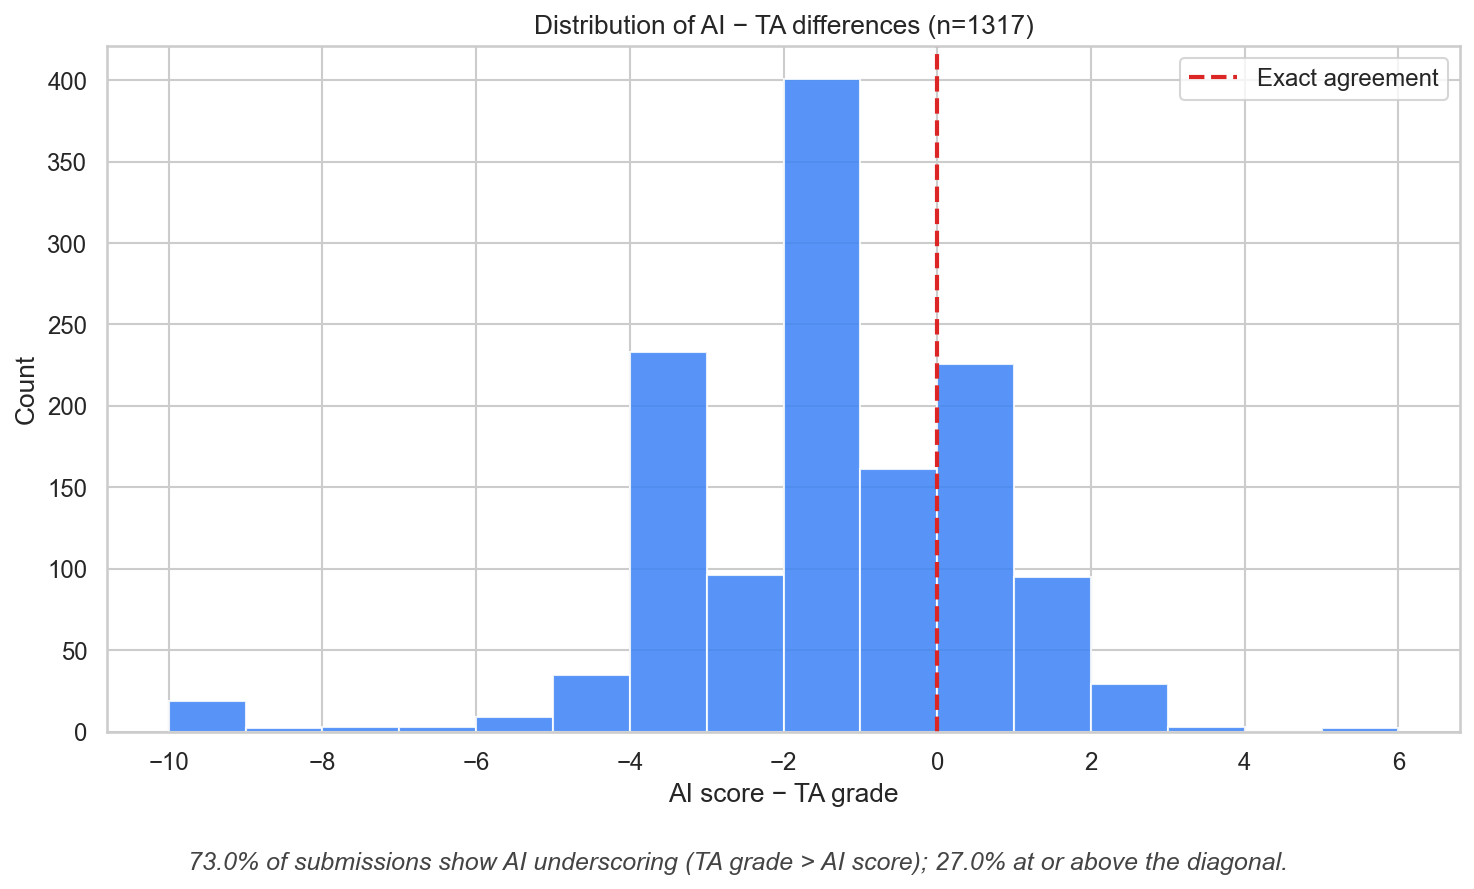
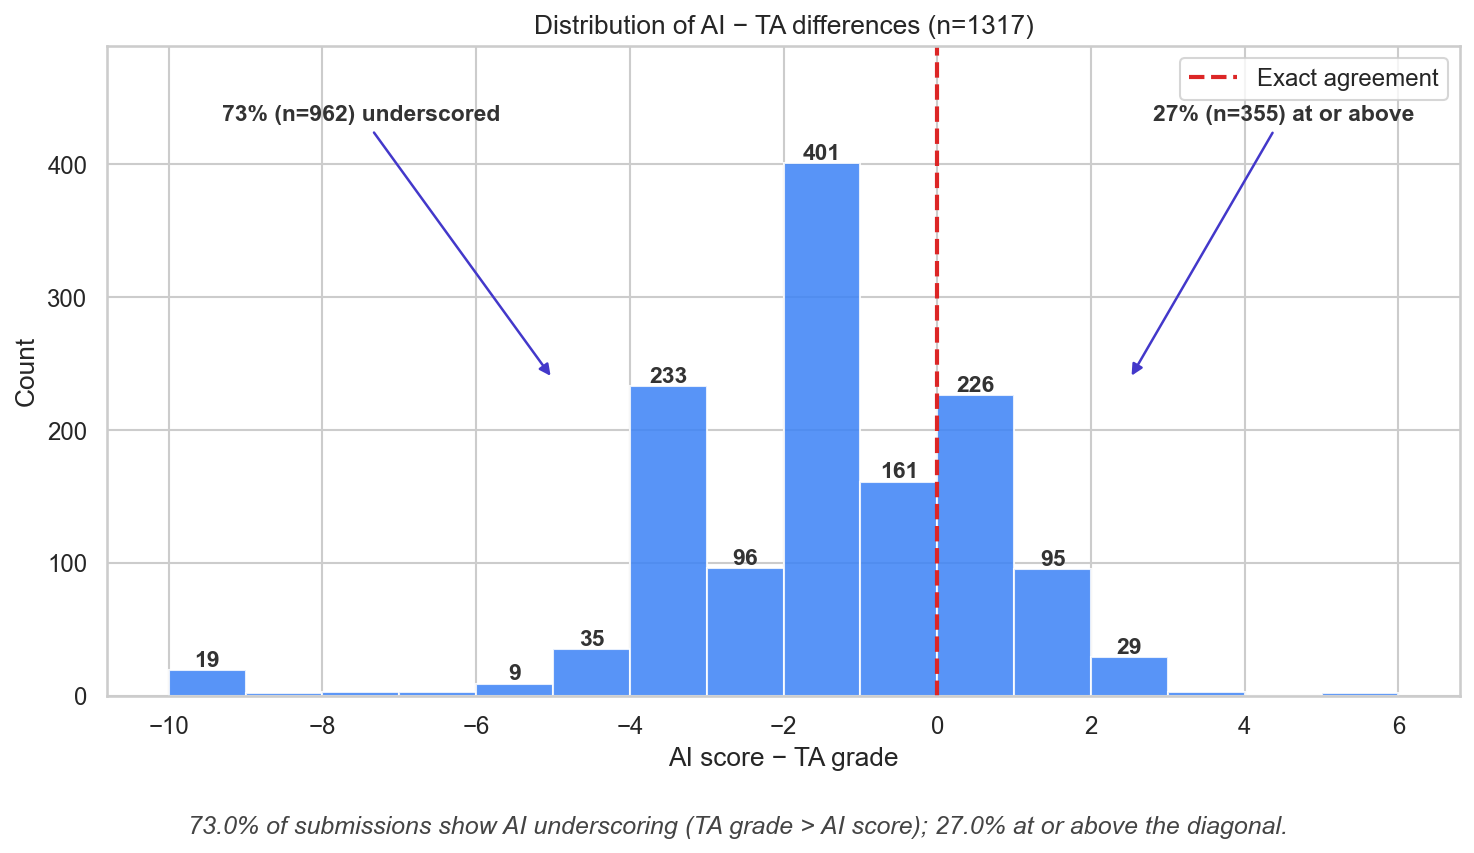
Add count labels to AI−TA difference histogram

diff --git a/src/data_analysis.py b/src/data_analysis.py
@@ -119,19 +119,68 @@ def plot_02_histogram(df: pd.DataFrame, out: Path) -> None:
     fig, ax = plt.subplots(figsize=(10, 6))
     diffs = df["score_diff"]
     bins = np.arange(-10, 7, 1)
-    ax.hist(diffs, bins=bins, color="#3b82f6", edgecolor="white", alpha=0.85)
+    counts, _, patches = ax.hist(
+        diffs, bins=bins, color="#3b82f6", edgecolor="white", alpha=0.85
+    )
     ax.axvline(0, color="#dc2626", linestyle="--", linewidth=2, label="Exact agreement")
-    pct_under = pct_underscored(df)
+
+    ymax = float(max(counts)) if len(counts) else 1.0
+    ax.set_ylim(0, ymax * 1.22)
+
+    for patch, count in zip(patches, counts):
+        height = float(count)
+        if height < 5:
+            continue
+        x = patch.get_x() + patch.get_width() / 2.0
+        ax.text(
+            x,
+            height,
+            f"{int(height)}",
+            ha="center",
+            va="bottom",
+            fontsize=11,
+            color="#333333",
+            fontweight="bold",
+        )
+
+    n_total = len(diffs)
+    n_under = int((diffs < 0).sum())
+    n_at_or_above = int((diffs >= 0).sum())
+    pct_under = 100.0 * n_under / n_total if n_total else 0.0
+    pct_above = 100.0 - pct_under
+    label_y = ymax * 1.08
+
+    ax.annotate(
+        f"{pct_under:.0f}% (n={n_under}) underscored",
+        xy=(-5.0, label_y * 0.55),
+        xytext=(-7.5, label_y),
+        fontsize=11,
+        color="#333333",
+        fontweight="bold",
+        ha="center",
+        arrowprops=dict(arrowstyle="-|>", color="#4338ca", lw=1.2),
+    )
+    ax.annotate(
+        f"{pct_above:.0f}% (n={n_at_or_above}) at or above",
+        xy=(2.5, label_y * 0.55),
+        xytext=(4.5, label_y),
+        fontsize=11,
+        color="#333333",
+        fontweight="bold",
+        ha="center",
+        arrowprops=dict(arrowstyle="-|>", color="#4338ca", lw=1.2),
+    )
+
     ax.set_xlabel("AI score − TA grade")
     ax.set_ylabel("Count")
-    ax.set_title(f"Distribution of AI − TA differences (n={len(df)})")
-    ax.legend()
+    ax.set_title(f"Distribution of AI − TA differences (n={n_total})")
+    ax.legend(loc="upper right")
     caption = (
         f"{pct_under:.1f}% of submissions show AI underscoring (TA grade > AI score); "
-        f"{100 - pct_under:.1f}% at or above the diagonal."
+        f"{pct_above:.1f}% at or above the diagonal."
     )
     fig.text(0.5, 0.02, caption, ha="center", fontsize=12, color="#444444", style="italic")
-    fig.tight_layout(rect=[0, 0.06, 1, 1])
+    fig.tight_layout(rect=[0, 0.06, 1, 0.96])
     fig.savefig(out, dpi=150, bbox_inches="tight")
     plt.close(fig)
 
